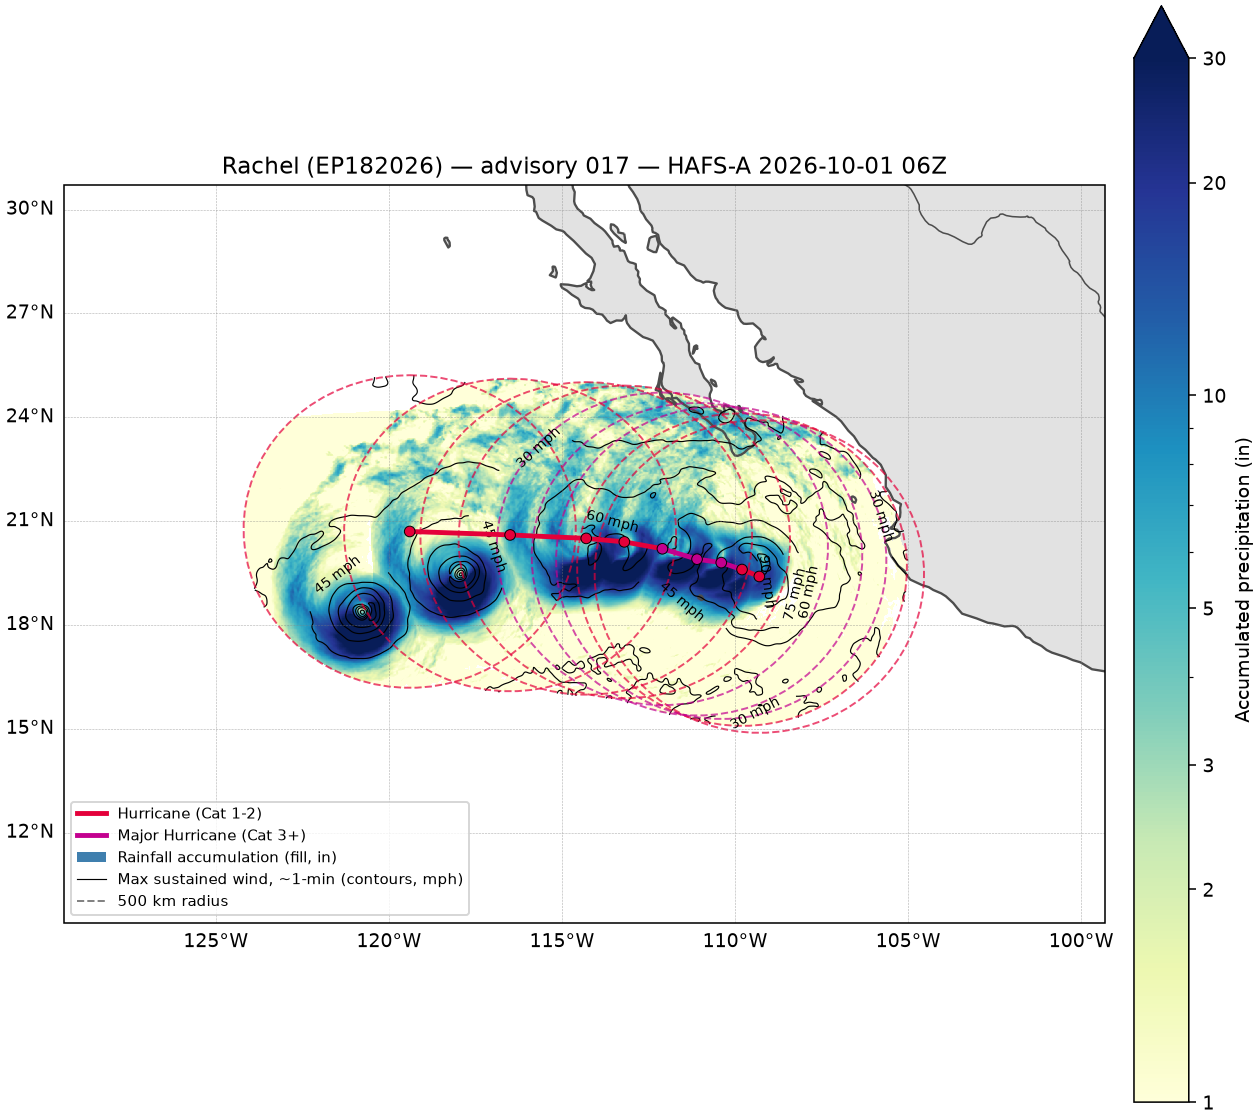
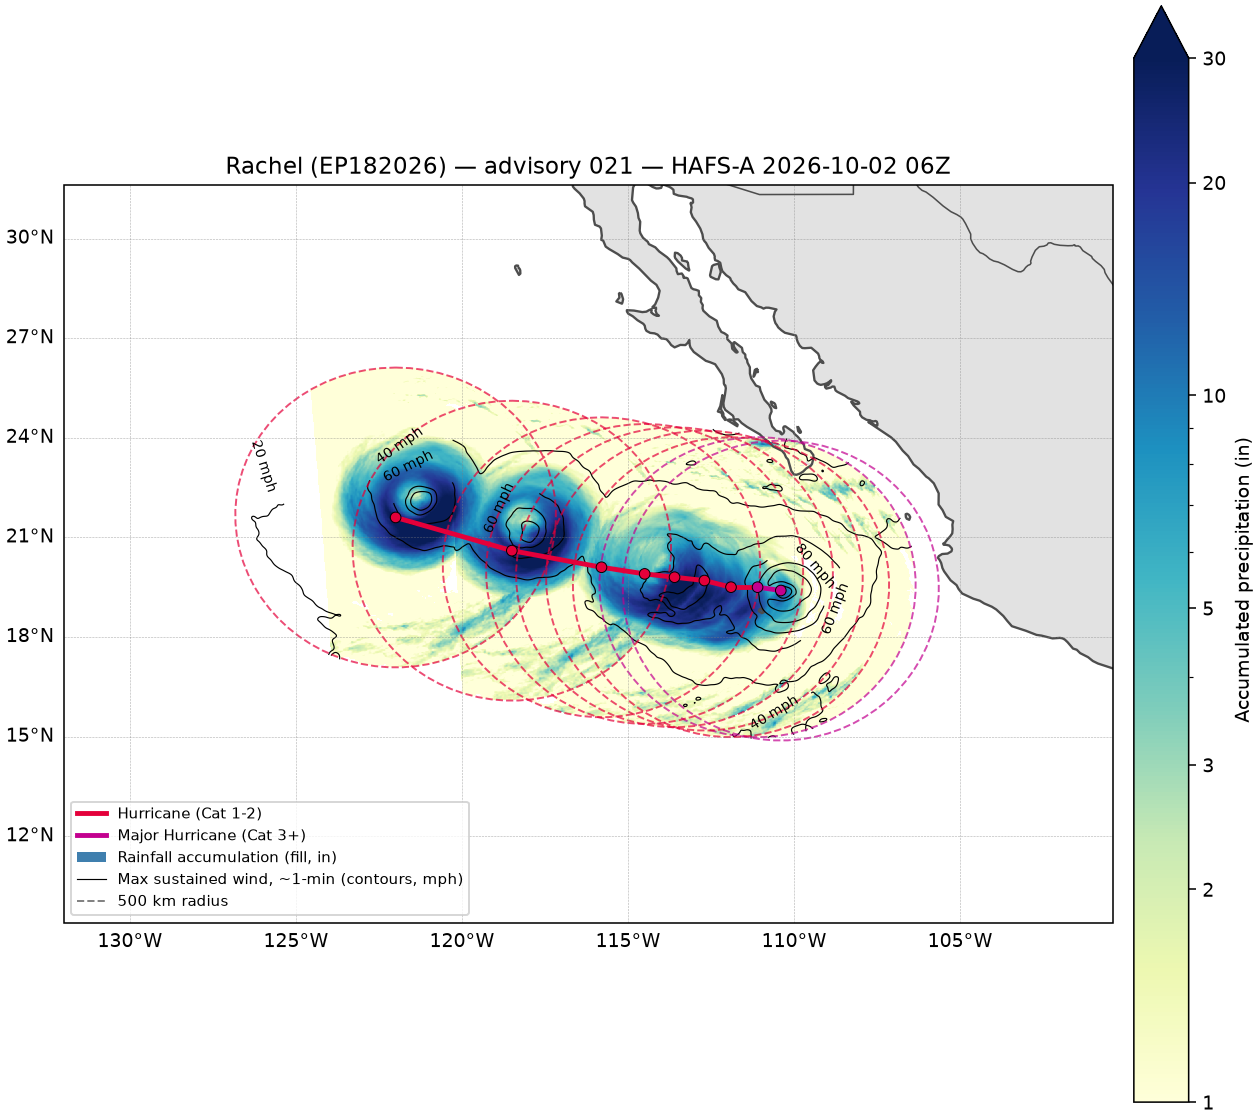
Automated render (2026-10-02T12:05Z)

diff --git a/docs/posts/2026-09-09-ep-storm-precip-wind/index.html b/docs/posts/2026-09-09-ep-storm-precip-wind/index.html
@@ -463,9 +463,8 @@ Important
 <span id="cb2-15"><a href="#cb2-15" aria-hidden="true" tabindex="-1"></a>    <span class="bu">print</span>(<span class="st">"No active storms in AL/EP/CP right now — nothing to plot today."</span>)</span></code></pre></div><button title="Copy to Clipboard" class="code-copy-button"><i class="bi"></i></button></div>
 </details>
 <div class="cell-output cell-output-stdout">
-<pre><code>Found: Rachel (EP) — advisory 017
-Found: Nineteen-E (EP) — advisory 008
-Found: Nolo (EP) — advisory 043a</code></pre>
+<pre><code>Found: Rachel (EP) — advisory 021
+Found: Nolo (EP) — advisory 047a</code></pre>
 </div>
 </div>
 </section>
@@ -615,26 +614,18 @@ Found: Nolo (EP) — advisory 043a</code></pre>
 <tr class="odd">
 <th data-quarto-table-cell-role="th">0</th>
 <td>Rachel (EP)</td>
-<td>2026-10-01 06Z</td>
+<td>2026-10-02 06Z</td>
 <td>9</td>
 <td>120</td>
 <td>Major Hurricane (Cat 3+)</td>
 </tr>
 <tr class="even">
 <th data-quarto-table-cell-role="th">1</th>
-<td>Nineteen-E (EP)</td>
-<td>2026-10-01 06Z</td>
-<td>3</td>
-<td>24</td>
-<td>Tropical Depression</td>
-</tr>
-<tr class="odd">
-<th data-quarto-table-cell-role="th">2</th>
 <td>Nolo (EP)</td>
-<td>2026-10-01 06Z</td>
+<td>2026-10-02 06Z</td>
 <td>9</td>
 <td>120</td>
-<td>Hurricane (Cat 1-2)</td>
+<td>Major Hurricane (Cat 3+)</td>
 </tr>
 </tbody>
 </table>
@@ -821,37 +812,44 @@ Found: Nolo (EP) — advisory 043a</code></pre>
 <span id="cb5-171"><a href="#cb5-171" aria-hidden="true" tabindex="-1"></a>composite_summary</span></code></pre></div><button title="Copy to Clipboard" class="code-copy-button"><i class="bi"></i></button></div>
 </details>
 <div class="cell-output cell-output-stdout">
-<pre><code>&lt;!-- ep182026 window 0h-12h (fxx 3-15): precip range [0.00,539.53] mm, wind range [1.44,48.43] m/s --&gt;
-&lt;!-- ep182026 window 12h-24h (fxx 15-27): precip range [0.00,706.19] mm, wind range [1.58,48.43] m/s --&gt;
-&lt;!-- ep182026 window 24h-36h (fxx 27-39): precip range [0.00,1111.88] mm, wind range [1.12,35.89] m/s --&gt;
-&lt;!-- ep182026 window 36h-48h (fxx 39-51): precip range [0.00,1154.89] mm, wind range [1.51,31.26] m/s --&gt;
-&lt;!-- ep182026 window 48h-60h (fxx 51-63): precip range [0.00,1419.42] mm, wind range [1.19,32.92] m/s --&gt;
-&lt;!-- ep182026 window 60h-72h (fxx 63-75): precip range [0.00,1417.51] mm, wind range [1.74,32.92] m/s --&gt;
-&lt;!-- ep182026 window 72h-96h (fxx 75-99): precip range [0.00,2079.83] mm, wind range [1.81,42.48] m/s --&gt;
-&lt;!-- ep182026 window 96h-120h (fxx 99-123): precip range [0.00,3681.13] mm, wind range [2.78,45.56] m/s --&gt;
-&lt;!-- ep182026 FINAL: precip total range [0.00,3681.13] mm (0.00 to 144.93 in) --&gt;
-&lt;!-- ep192026 window 0h-12h (fxx 3-15): precip range [0.00,184.43] mm, wind range [2.13,18.97] m/s --&gt;
-&lt;!-- ep192026 window 12h-24h (fxx 15-27): precip range [0.00,352.99] mm, wind range [1.10,20.11] m/s --&gt;
-&lt;!-- ep192026 FINAL: precip total range [0.00,352.99] mm (0.00 to 13.90 in) --&gt;
-&lt;!-- ep152026 window 0h-12h (fxx 6-18): precip range [0.00,133.96] mm, wind range [3.65,26.14] m/s --&gt;
-&lt;!-- ep152026 window 12h-24h (fxx 18-30): precip range [0.00,245.12] mm, wind range [3.91,32.43] m/s --&gt;
-&lt;!-- ep152026 window 24h-36h (fxx 30-42): precip range [0.00,448.95] mm, wind range [4.55,32.43] m/s --&gt;
-&lt;!-- ep152026 window 36h-48h (fxx 42-54): precip range [0.00,518.92] mm, wind range [1.99,35.24] m/s --&gt;
-&lt;!-- ep152026 window 48h-60h (fxx 54-66): precip range [0.00,653.22] mm, wind range [1.20,44.41] m/s --&gt;
-&lt;!-- ep152026 window 60h-72h (fxx 66-78): precip range [0.00,1248.67] mm, wind range [1.20,54.71] m/s --&gt;
-&lt;!-- ep152026 window 72h-96h (fxx 78-102): precip range [0.00,30.26] mm, wind range [1.09,54.71] m/s --&gt;
-&lt;!-- ep152026: skipped window 96h-120h (fxx 102-126): Traceback (most recent call last):
-  File "/tmp/ipykernel_2720/2811287546.py", line 91, in composite_storm_fields
+<pre><code>&lt;!-- ep182026 window 0h-12h (fxx 3-15): precip range [0.00,318.31] mm, wind range [1.11,54.91] m/s --&gt;
+&lt;!-- ep182026 window 12h-24h (fxx 15-27): precip range [0.00,485.89] mm, wind range [1.11,36.74] m/s --&gt;
+&lt;!-- ep182026 window 24h-36h (fxx 27-39): precip range [0.00,324.11] mm, wind range [1.62,27.82] m/s --&gt;
+&lt;!-- ep182026 window 36h-48h (fxx 39-51): precip range [0.00,634.22] mm, wind range [1.86,27.07] m/s --&gt;
+&lt;!-- ep182026 window 48h-60h (fxx 51-63): precip range [0.00,583.02] mm, wind range [1.66,30.31] m/s --&gt;
+&lt;!-- ep182026 window 60h-72h (fxx 63-75): precip range [0.00,808.06] mm, wind range [2.15,30.31] m/s --&gt;
+&lt;!-- ep182026 window 72h-96h (fxx 75-99): precip range [0.00,1094.79] mm, wind range [0.78,31.39] m/s --&gt;
+&lt;!-- ep182026 window 96h-120h (fxx 99-123): precip range [0.00,1316.97] mm, wind range [0.59,31.39] m/s --&gt;
+&lt;!-- ep182026 FINAL: precip total range [0.00,1316.97] mm (0.00 to 51.85 in) --&gt;
+&lt;!-- ep152026 window 0h-12h (fxx 6-18): precip range [0.00,371.12] mm, wind range [3.65,32.10] m/s --&gt;
+&lt;!-- ep152026 window 12h-24h (fxx 18-30): precip range [0.00,461.51] mm, wind range [2.96,42.26] m/s --&gt;
+&lt;!-- ep152026 window 24h-36h (fxx 30-42): precip range [0.00,808.47] mm, wind range [1.14,52.47] m/s --&gt;
+&lt;!-- ep152026 window 36h-48h (fxx 42-54): precip range [0.00,1574.31] mm, wind range [0.77,59.37] m/s --&gt;
+&lt;!-- ep152026 window 48h-60h (fxx 54-66): precip range [0.00,226.80] mm, wind range [0.77,59.37] m/s --&gt;
+&lt;!-- ep152026 window 60h-72h (fxx 66-78): precip range [0.00,76.00] mm, wind range [4.94,28.38] m/s --&gt;
+&lt;!-- ep152026: skipped window 72h-96h (fxx 78-102): Traceback (most recent call last):
+  File "/tmp/ipykernel_2501/2811287546.py", line 91, in composite_storm_fields
     precip_window = fetch_precip_window(fxx0, fxx1)
                     ^^^^^^^^^^^^^^^^^^^^^^^^^^^^^^^
-  File "/tmp/ipykernel_2720/2811287546.py", line 65, in fetch_precip_window
+  File "/tmp/ipykernel_2501/2811287546.py", line 65, in fetch_precip_window
     a1 = regrid_to_common(first_data_var(H1.xarray(f":APCP:surface:0-{fxx1} hour acc fcst")))
          ^^^^^^^^^^^^^^^^^^^^^^^^^^^^^^^^^^^^^^^^^^^^^^^^^^^^^^^^^^^^^^^^^^^^^^^^^^^^^^^^^^^^
-  File "/tmp/ipykernel_2720/2811287546.py", line 37, in regrid_to_common
+  File "/tmp/ipykernel_2501/2811287546.py", line 37, in regrid_to_common
     raise RuntimeError(
-RuntimeError: Regridding produced no valid data at all (target lat [6.80,40.70], lon [-204.00,-150.30]; native lat [18.14,34.14], lon [158.04,178.04])
+RuntimeError: Regridding produced no valid data at all (target lat [8.30,42.10], lon [-211.80,-151.90]; native lat [18.09,34.09], lon [159.74,179.74])
  --&gt;
-&lt;!-- ep152026 FINAL: precip total range [0.00,1248.67] mm (0.00 to 49.16 in) --&gt;</code></pre>
+&lt;!-- ep152026: skipped window 96h-120h (fxx 102-126): Traceback (most recent call last):
+  File "/tmp/ipykernel_2501/2811287546.py", line 91, in composite_storm_fields
+    precip_window = fetch_precip_window(fxx0, fxx1)
+                    ^^^^^^^^^^^^^^^^^^^^^^^^^^^^^^^
+  File "/tmp/ipykernel_2501/2811287546.py", line 65, in fetch_precip_window
+    a1 = regrid_to_common(first_data_var(H1.xarray(f":APCP:surface:0-{fxx1} hour acc fcst")))
+         ^^^^^^^^^^^^^^^^^^^^^^^^^^^^^^^^^^^^^^^^^^^^^^^^^^^^^^^^^^^^^^^^^^^^^^^^^^^^^^^^^^^^
+  File "/tmp/ipykernel_2501/2811287546.py", line 37, in regrid_to_common
+    raise RuntimeError(
+RuntimeError: Regridding produced no valid data at all (target lat [8.30,42.10], lon [-211.80,-151.90]; native lat [18.49,34.49], lon [152.00,172.00])
+ --&gt;
+&lt;!-- ep152026 FINAL: precip total range [0.00,1574.62] mm (0.00 to 61.99 in) --&gt;</code></pre>
 </div>
 <div id="composite-fields" class="cell-output cell-output-display" data-execution_count="4">
 <div>
@@ -875,27 +873,18 @@ RuntimeError: Regridding produced no valid data at all (target lat [6.80,40.70],
 <td>Rachel (EP)</td>
 <td>8</td>
 <td>0</td>
-<td>3681.1</td>
-<td>129.2</td>
-<td>48.4</td>
+<td>1317.0</td>
+<td>103.9</td>
+<td>54.9</td>
 </tr>
 <tr class="even">
 <th data-quarto-table-cell-role="th">1</th>
-<td>Nineteen-E (EP)</td>
-<td>2</td>
-<td>0</td>
-<td>353.0</td>
-<td>6.8</td>
-<td>20.1</td>
-</tr>
-<tr class="odd">
-<th data-quarto-table-cell-role="th">2</th>
 <td>Nolo (EP)</td>
-<td>7</td>
-<td>1</td>
-<td>1248.7</td>
-<td>45.5</td>
-<td>54.7</td>
+<td>6</td>
+<td>2</td>
+<td>1574.6</td>
+<td>37.7</td>
+<td>59.4</td>
 </tr>
 </tbody>
 </table>
@@ -1089,11 +1078,6 @@ RuntimeError: Regridding produced no valid data at all (target lat [6.80,40.70],
 </tr>
 <tr class="even">
 <th data-quarto-table-cell-role="th">1</th>
-<td>Nineteen-E (EP)</td>
-<td>storm_images/ep192026.png</td>
-</tr>
-<tr class="odd">
-<th data-quarto-table-cell-role="th">2</th>
 <td>Nolo (EP)</td>
 <td>storm_images/ep152026.png</td>
 </tr>
@@ -1148,16 +1132,13 @@ RuntimeError: Regridding produced no valid data at all (target lat [6.80,40.70],
 <span id="cb10-37"><a href="#cb10-37" aria-hidden="true" tabindex="-1"></a>    <span class="bu">print</span>(<span class="ss">f"&lt;!-- Skipped </span><span class="sc">{</span>label<span class="sc">}</span><span class="ss">:</span><span class="ch">\n</span><span class="sc">{</span>tb<span class="sc">}</span><span class="ch">\n</span><span class="ss">--&gt;"</span>)</span></code></pre></div><button title="Copy to Clipboard" class="code-copy-button"><i class="bi"></i></button></div>
 </details>
 <div style="margin-bottom:1em;">
-<label for="storm-select"><strong>Select a storm:</strong></label> <select id="storm-select" onchange="showStormPanel(this.value)"> <option value="storm-ep182026" selected="">Rachel (EP)</option> <option value="storm-ep192026">Nineteen-E (EP)</option> <option value="storm-ep152026">Nolo (EP)</option> </select>
+<label for="storm-select"><strong>Select a storm:</strong></label> <select id="storm-select" onchange="showStormPanel(this.value)"> <option value="storm-ep182026" selected="">Rachel (EP)</option> <option value="storm-ep152026">Nolo (EP)</option> </select>
 </div>
 <div id="storm-ep182026" class="storm-panel" style="display:block;">
-<img src="storm_images/ep182026.png?v=1790856364" style="max-width:100%;">
-</div>
-<div id="storm-ep192026" class="storm-panel" style="display:none;">
-<img src="storm_images/ep192026.png?v=1790856364" style="max-width:100%;">
+<img src="storm_images/ep182026.png?v=1790942646" style="max-width:100%;">
 </div>
 <div id="storm-ep152026" class="storm-panel" style="display:none;">
-<img src="storm_images/ep152026.png?v=1790856364" style="max-width:100%;">
+<img src="storm_images/ep152026.png?v=1790942646" style="max-width:100%;">
 </div>
 <script>
 function showStormPanel(id) {
